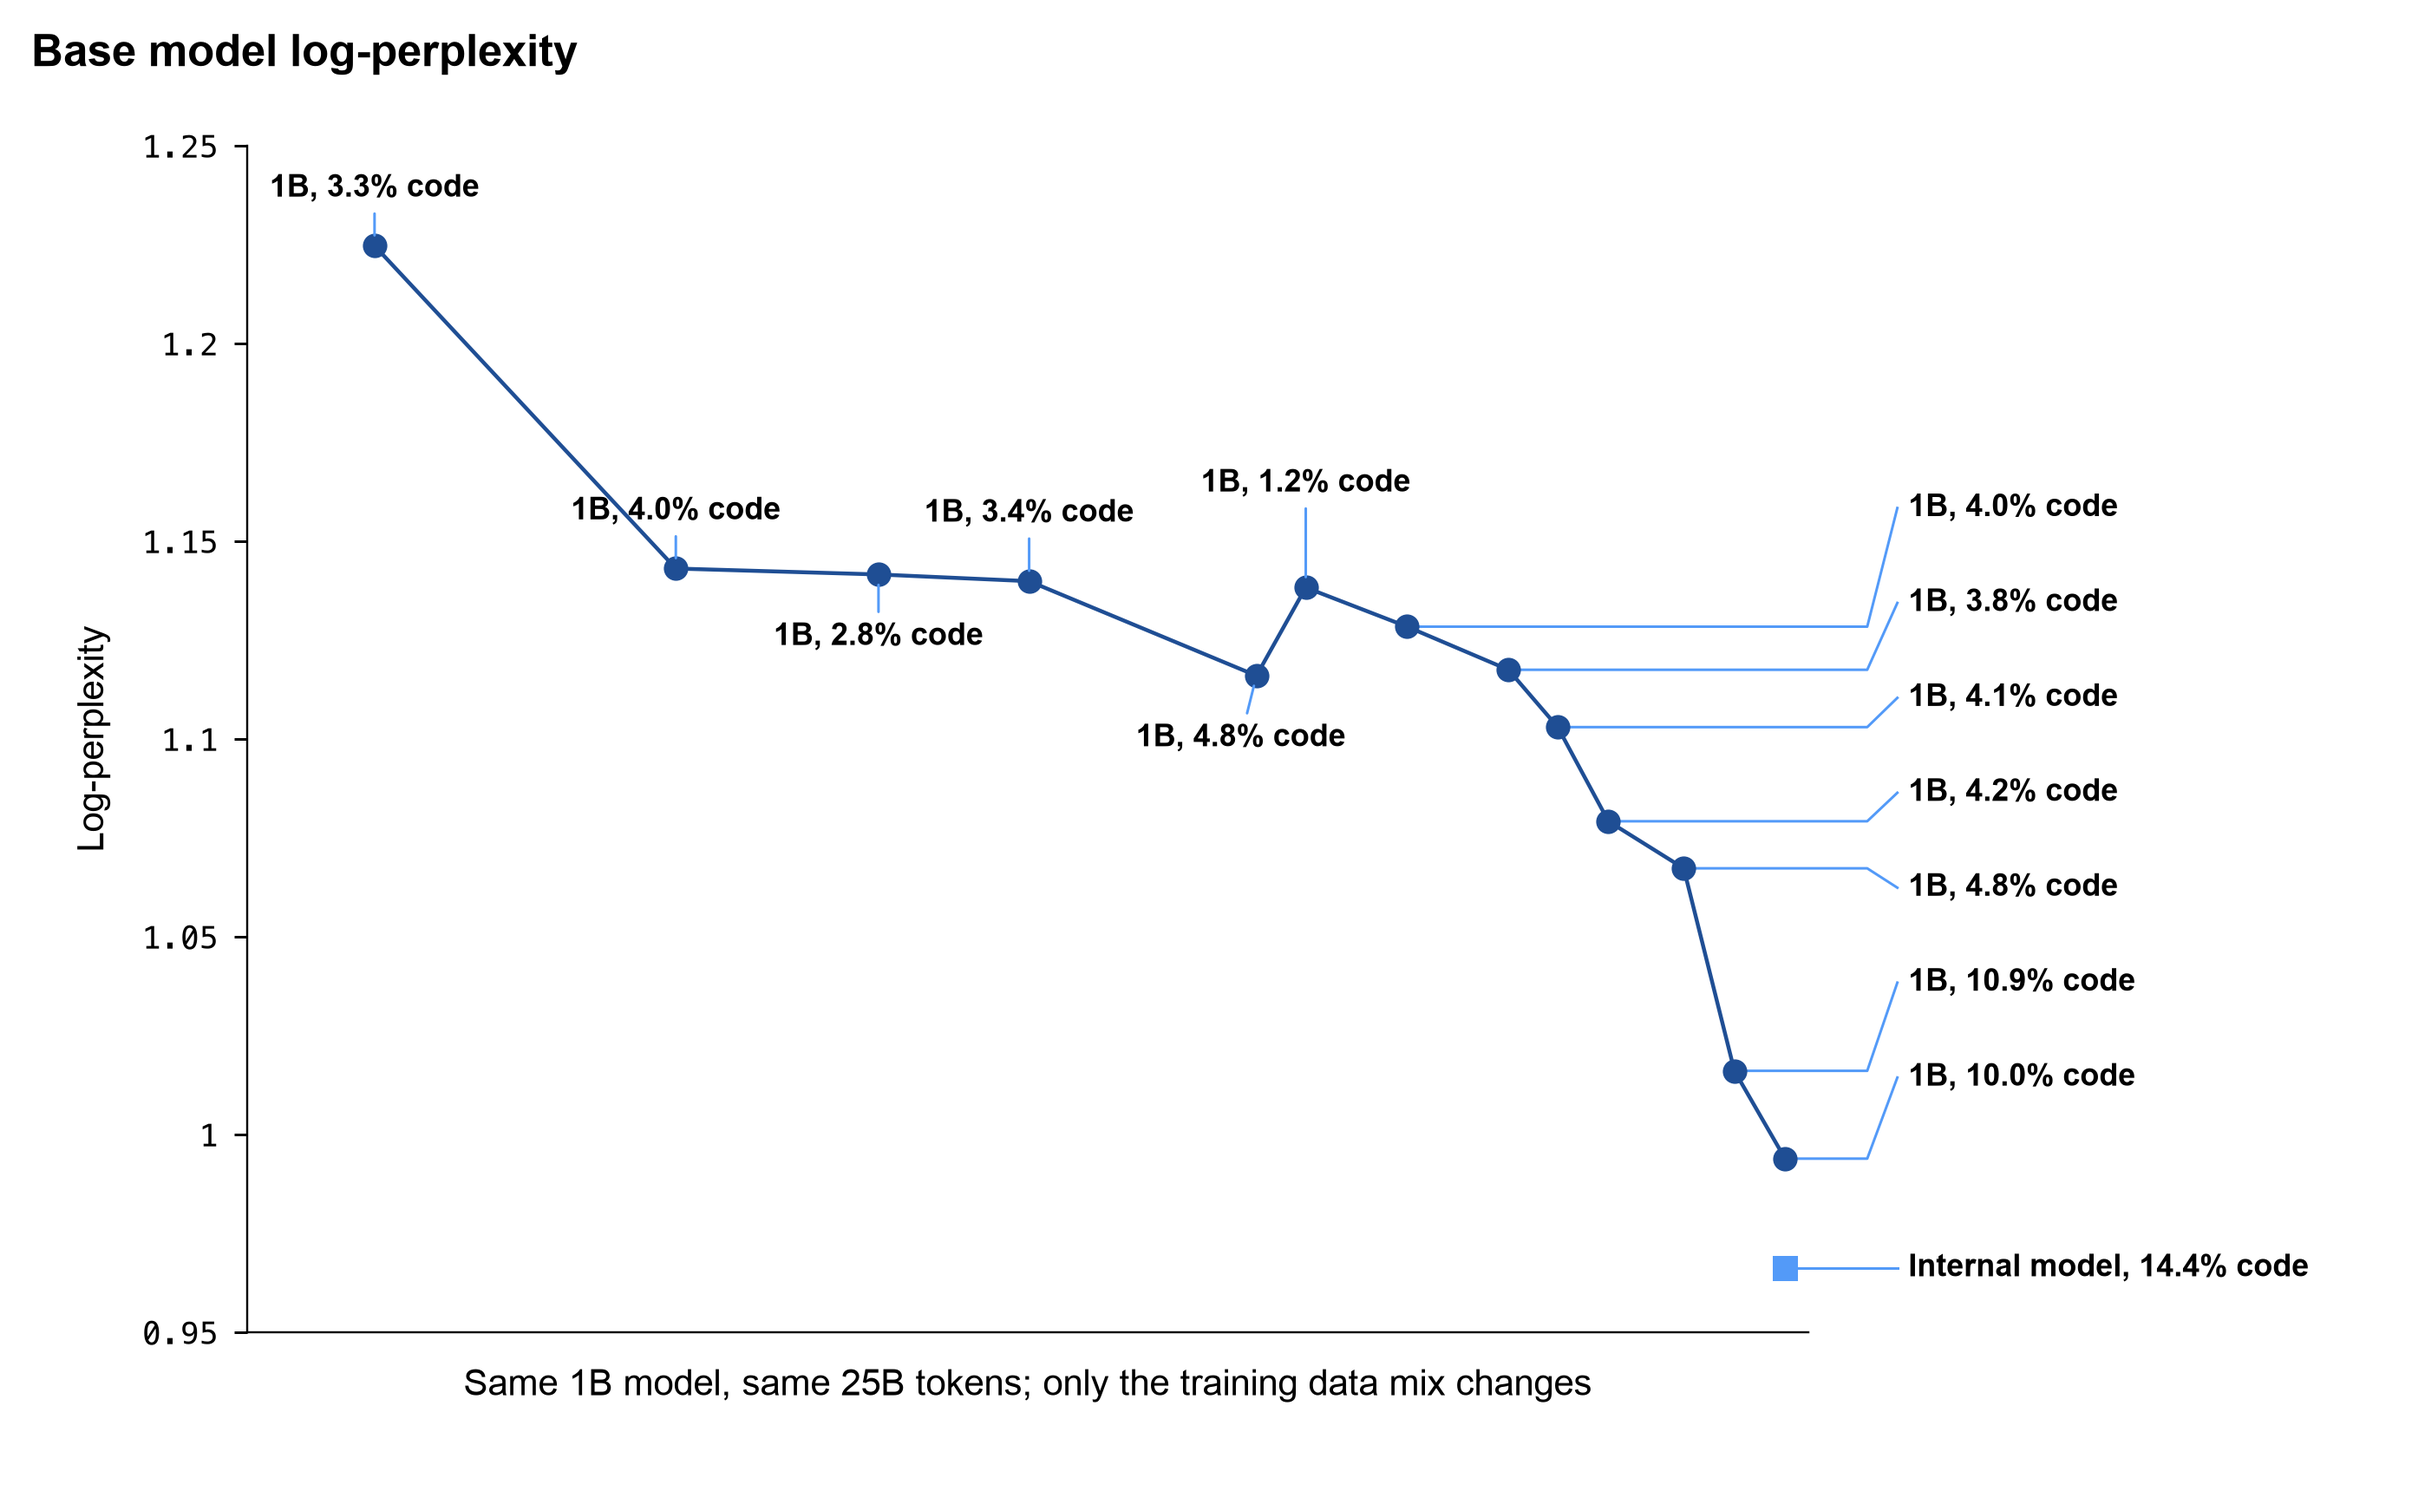
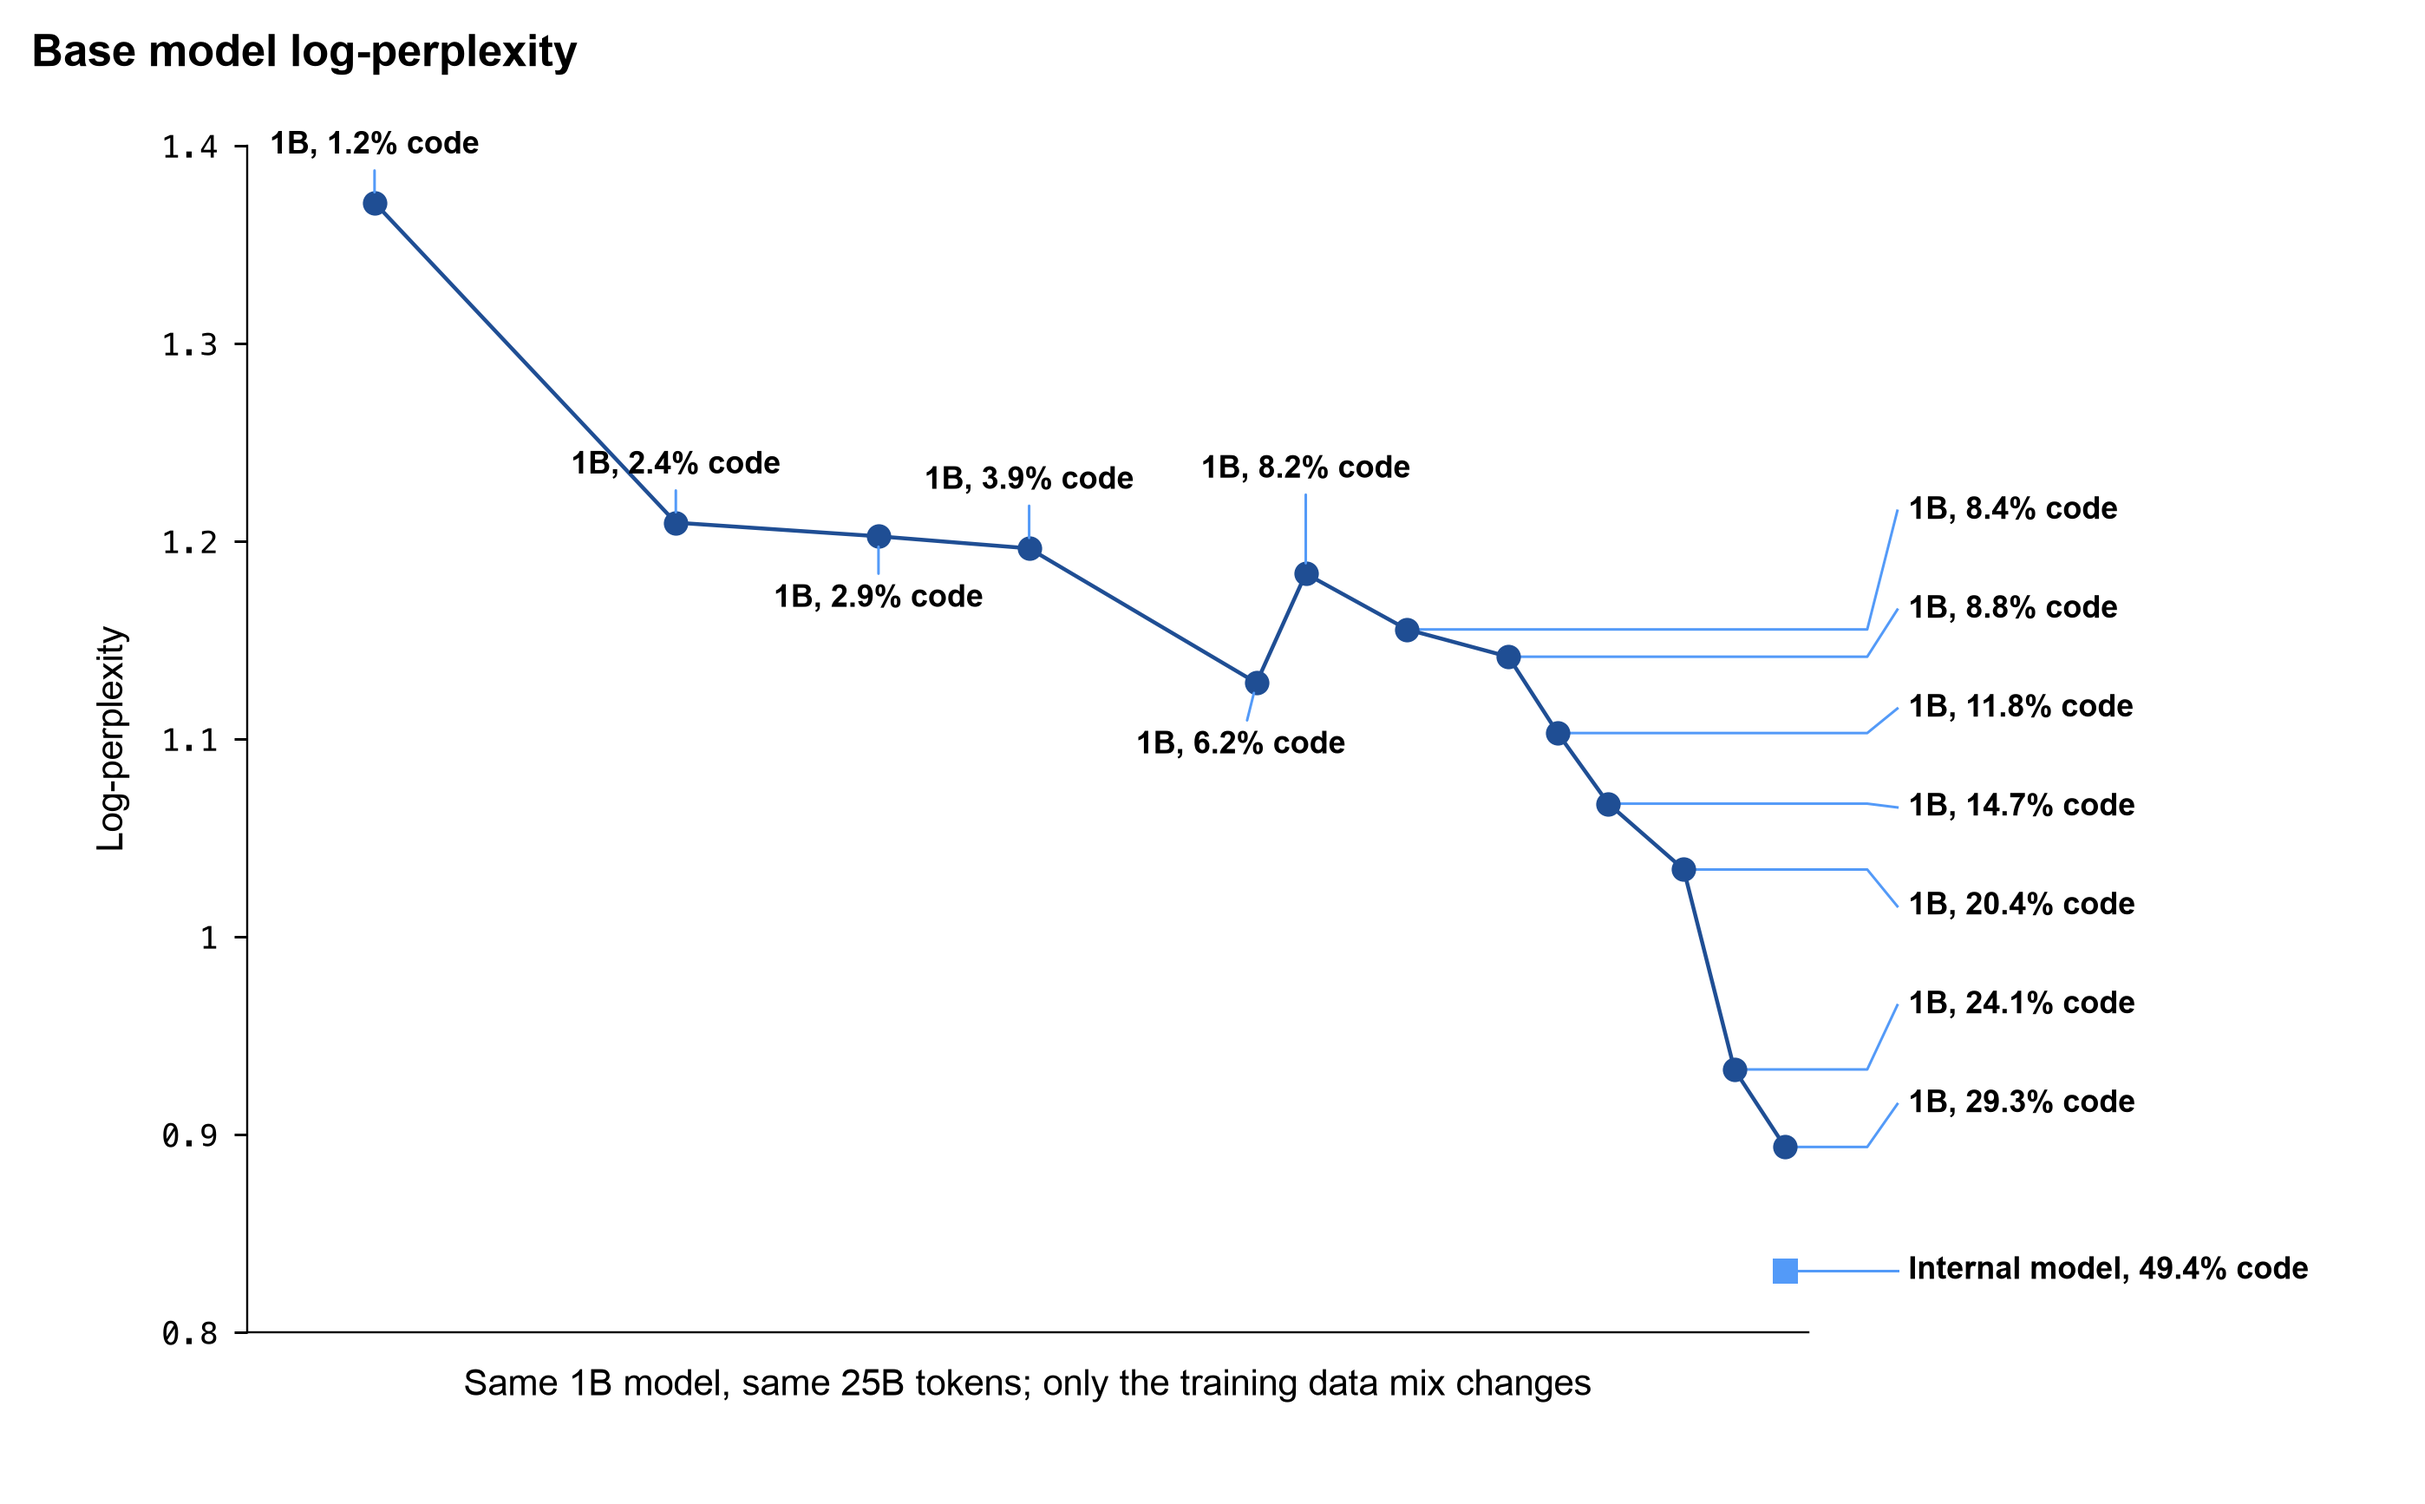
Rewrite same-perplexity-chart post with code share scatter and r²

diff --git a/content/blog/same-perplexity-chart-data-mix.md b/content/blog/same-perplexity-chart-data-mix.md
@@ -7,12 +7,16 @@ showFooter = true
 description = ""
 +++
 
-Earlier today, I published [a blog post](/blog/lowering-perplexity-without-scaling/) whose point was that OpenAI's recent post showing pre-training progress was confounded by the percent of code in their pre-training corpus.
+Earlier today, I published [a blog post](/blog/lowering-perplexity-without-scaling/) showing that if you increase the proportion of code in pretraining, you will get lower log-perplexity in evaluation. This was in response to [OpenAI's blog](https://openai.com/index/perplexity-and-intelligence/) today.
 
-In the post, I demonstrated that if you vary the percent of code in your pre-training mix and you only evaluate log perplexity loss on a set of code, then you almost by definition get a reduction in log perplexity loss.
+After publishing, I found [a project](https://github.com/sail-sg/regmix) that had actually randomized contents of pretraining and published log-perplexities on the various components. Basically, they'd already done an experiment to prove the relationship I was alleging.
 
-After publishing, I realized I could do one better and generate something in the shape of the exact same chart:
-
-[![OpenAI's base model log-perplexity curve, redrawn from 14 released RegMix models that share the same 1B architecture and 25B training tokens and differ only in training data mix](/images/perplexity-data-mix/regmix-same-shape.png)](https://huggingface.co/sail/data-mixture-random-1b)
+Here's the data from their experiment, you can see how closely log-perplexity for code tracks code content.
 
 [![All 64 RegMix 1B models: as the GitHub plus StackExchange share of training data rises from under 1% to about 50%, log loss on held-out GitHub code falls from about 1.4 to about 0.83 (r = -0.86)](/images/perplexity-data-mix/regmix-code-share-scatter.png)](/images/perplexity-data-mix/regmix-code-share-scatter.png)
+
+The r² of this chart is 0.75 and the p-value of this relationship is about 4×10⁻²⁰.
+
+For fun, I asked an agent to cherrypick the data and generate a similar chart to OpenAI's, just using the various points here. We even have an impressive internal model (that's just 50% code in pretraining).
+
+[![OpenAI's base model log-perplexity curve, redrawn from 14 released RegMix models that share the same 1B architecture and 25B training tokens and differ only in training data mix, with code share rising from 1.2% to 49.4% left to right](/images/perplexity-data-mix/regmix-same-shape.png)](https://huggingface.co/sail/data-mixture-random-1b)
